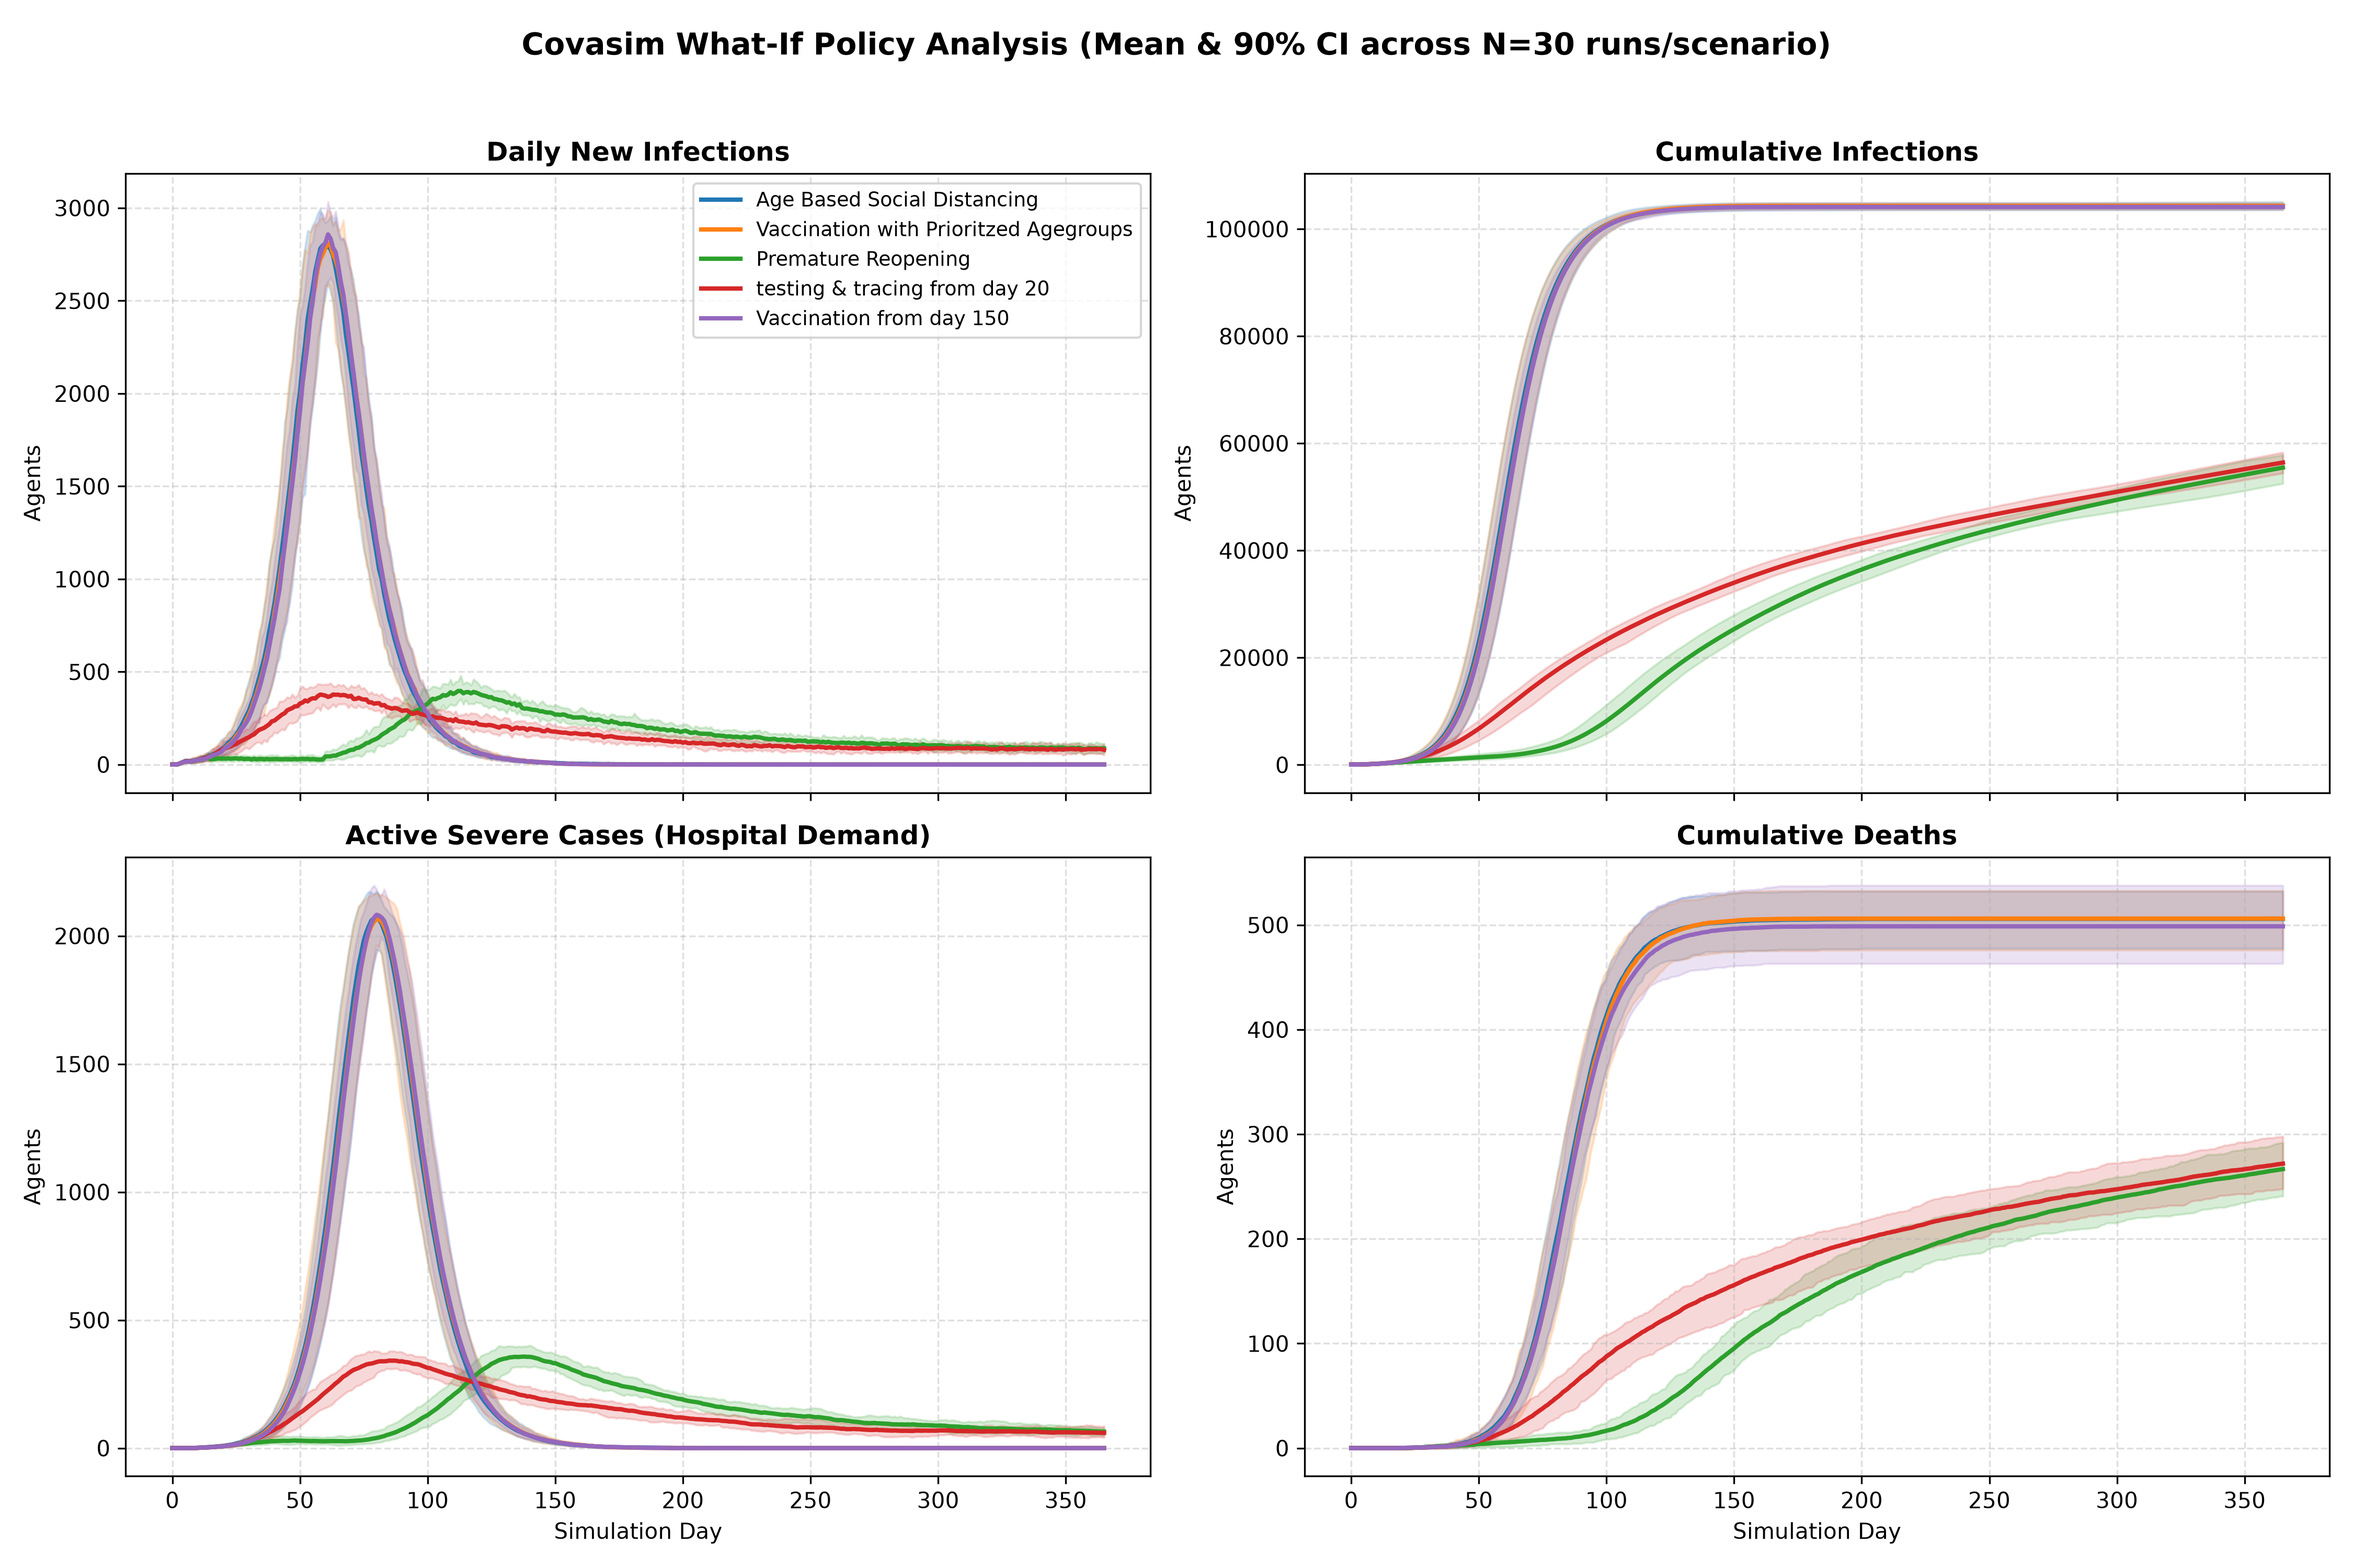
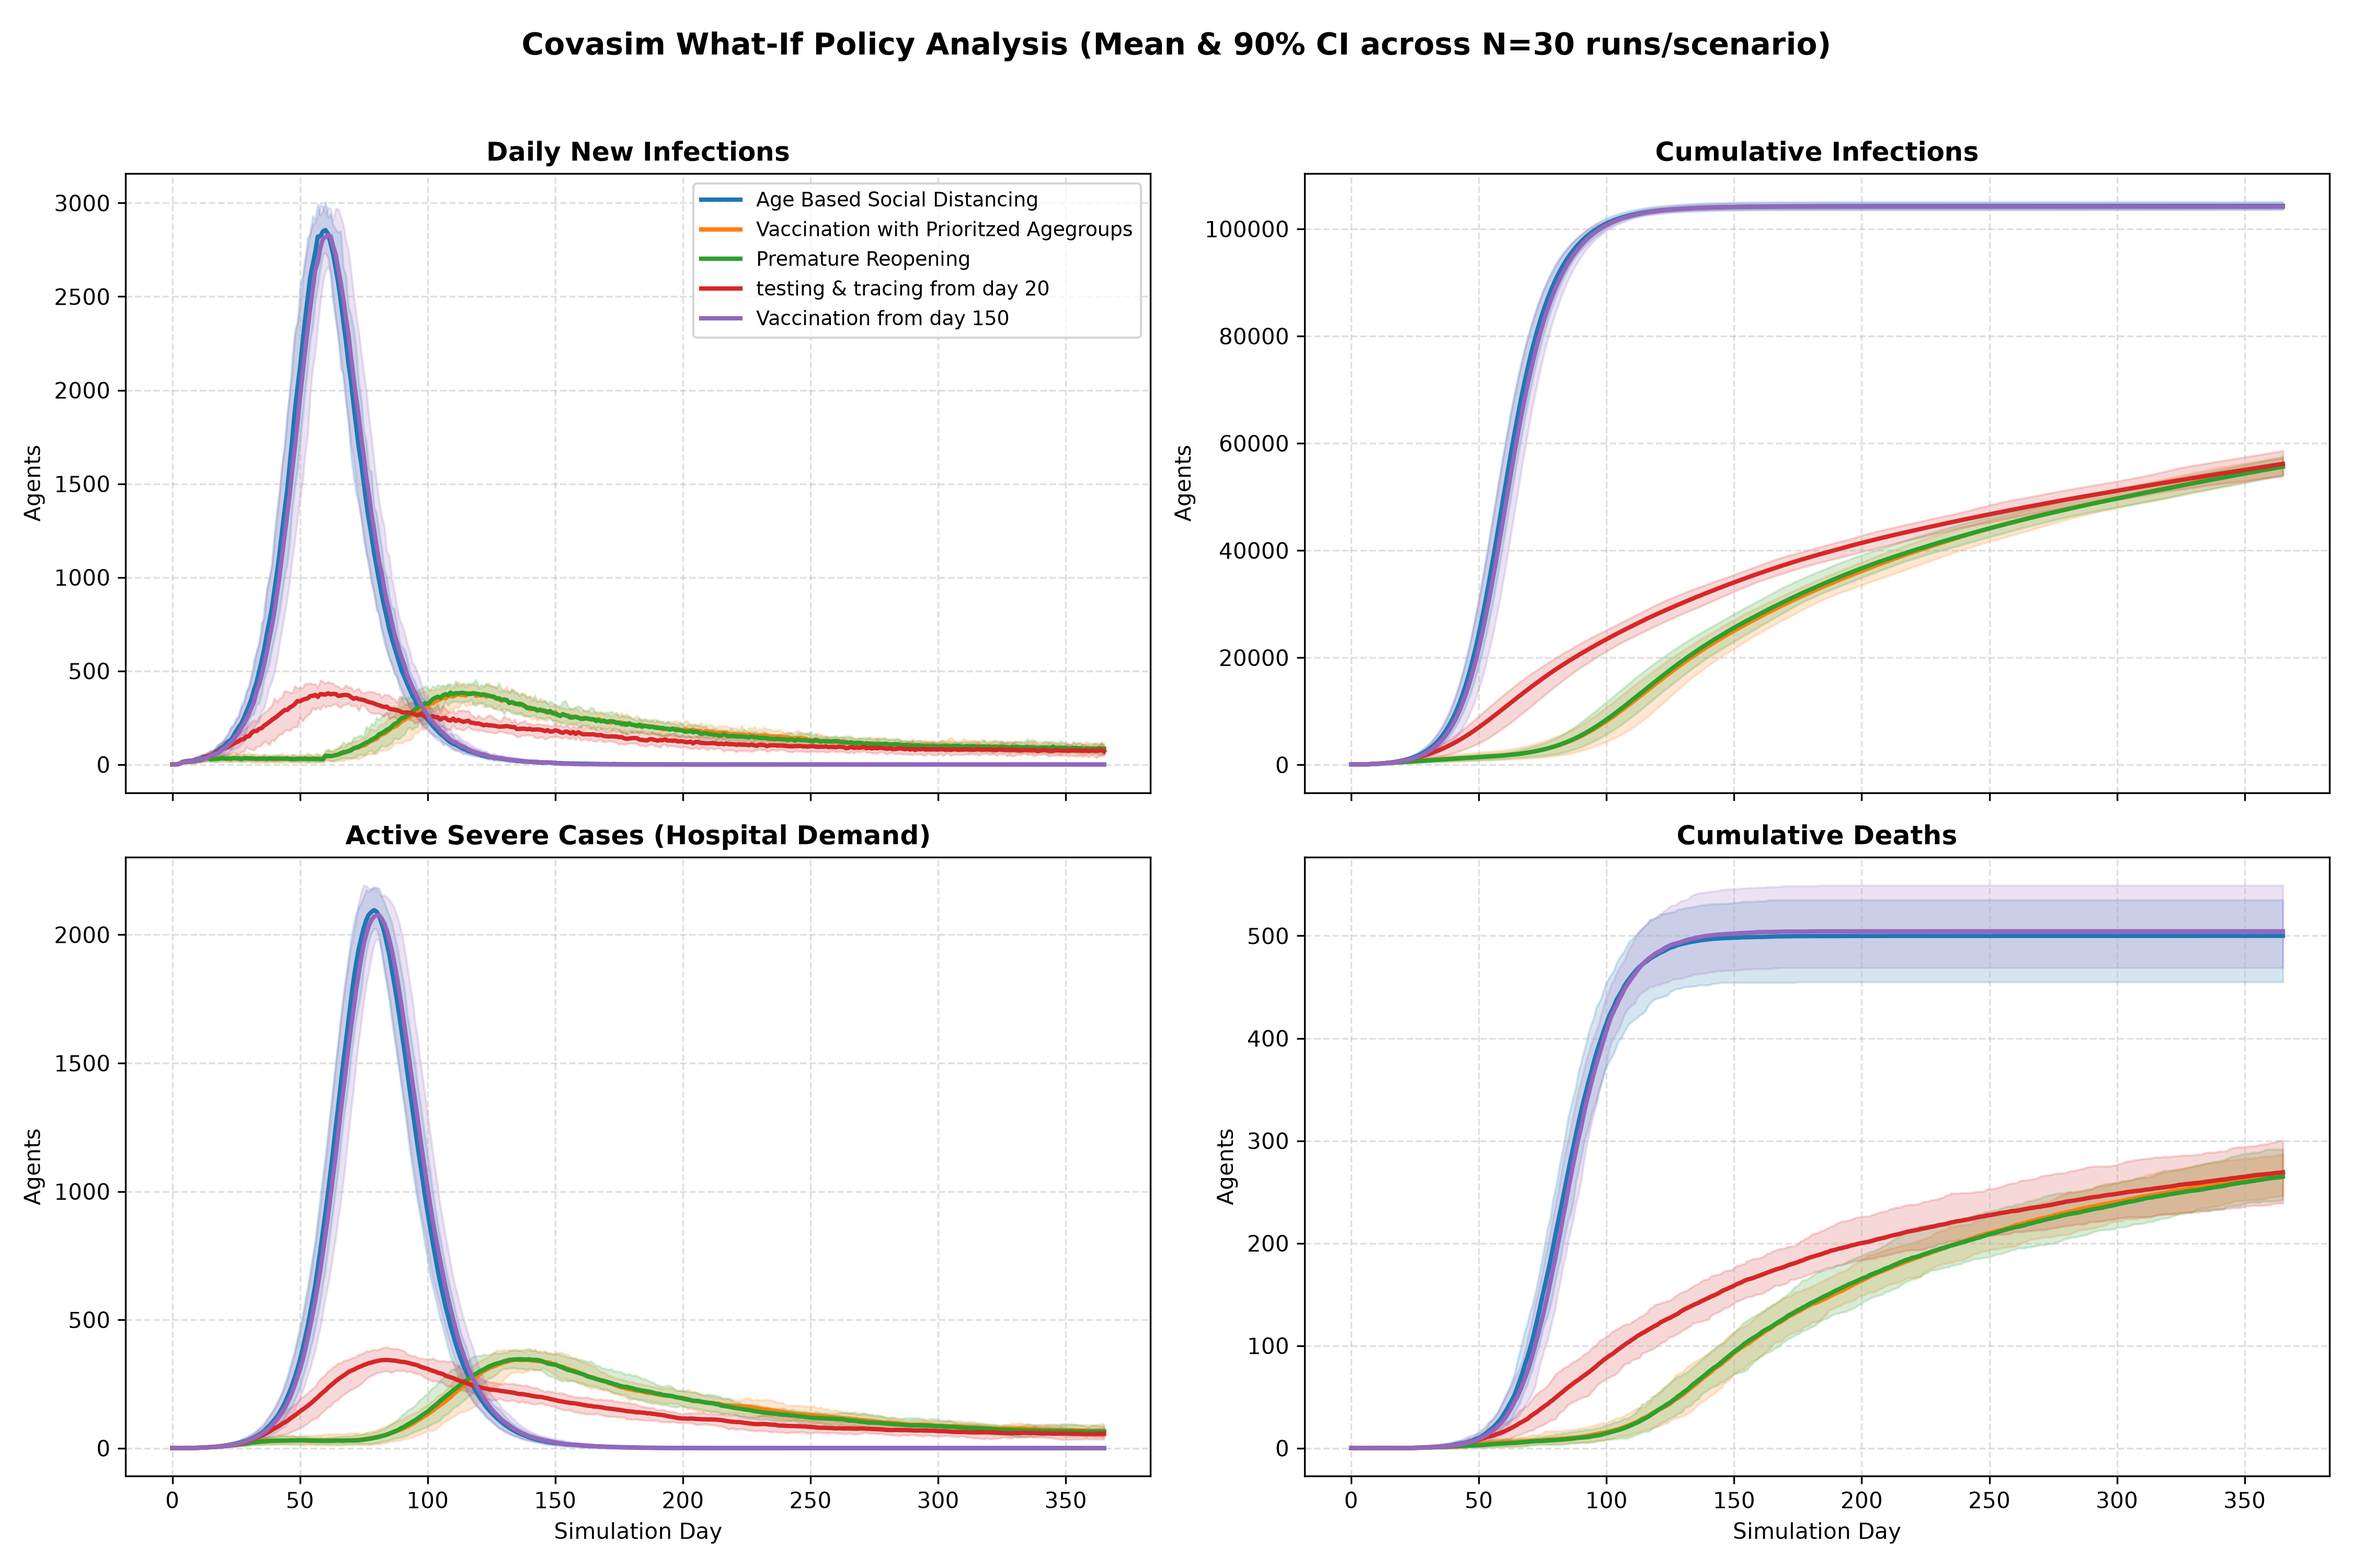
scen2 is scen3

diff --git a/M2/scenarios.py b/M2/scenarios.py
@@ -161,7 +161,7 @@ def get_scenarios():
     """Define scenarios"""
     baseline = []
     scenario_1 = [] #AGE_BASED_SOCIAL_DISTANCING
-    scenario_2 = [VACCINATION] #[VACCINATION_BY_AGEGROUP]
+    scenario_2 = PREMATURE_OPENING #[VACCINATION_BY_AGEGROUP]
     scenario_3 = PREMATURE_OPENING
     scenario_4 = [testing(20), tracing(20)]
     scenario_5 = [VACCINATION]
